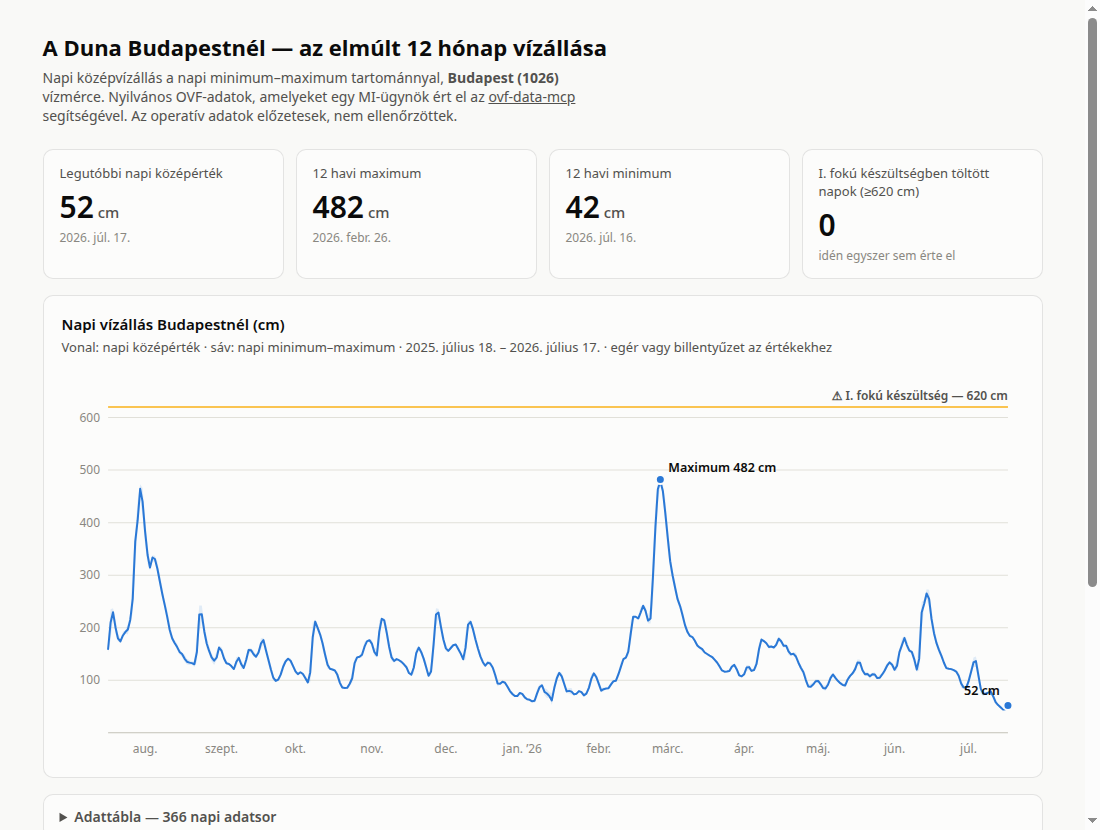
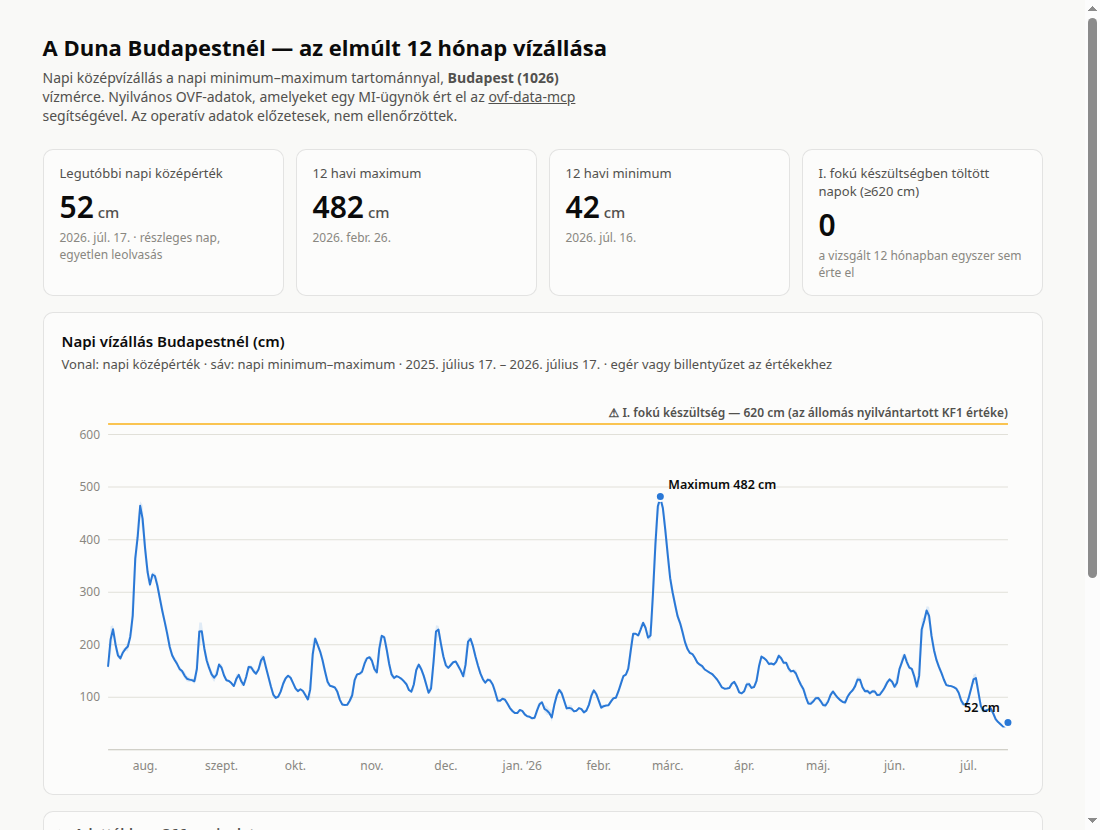
docs: flag the partial final day and derive hardcoded figures
On the water-level page the final row has min = mean = max = 52.0, the only such
row in 366 days. That signature is a single reading, not a full hydrological day,
and it drove the "latest value" tile, the chart endpoint and the aria-label. It is
now labelled a partial day rather than presented as a daily mean.

Two figures were hardcoded and would have gone stale on any data refresh: the
alert-day count was the literal 0, now filtered from the series, and the Balaton
page divided by a literal 366 instead of the series length.

Both pages stated a window starting July 18 while their data starts July 17, the
hydrological day containing the query start. Prose now matches the data. The
620 cm alert level is attributed to the station's registered KF1 value, so an
authoritative-looking number is traceable to the documented method.

diff --git a/docs/examples/danube-water-level.html b/docs/examples/danube-water-level.html
@@ -78,9 +78,9 @@
 
   <div class="card">
     <h2>Napi vízállás Budapestnél (cm)</h2>
-    <p class="sub">Vonal: napi középérték · sáv: napi minimum–maximum · 2025. július 18. – 2026. július 17. · egér vagy billentyűzet az értékekhez</p>
+    <p class="sub">Vonal: napi középérték · sáv: napi minimum–maximum · 2025. július 17. – 2026. július 17. · egér vagy billentyűzet az értékekhez</p>
     <svg id="chart" viewBox="0 0 960 400" role="img" tabindex="0"
-         aria-label="Vonaldiagram a Duna Budapestnél mért napi vízállásáról az elmúlt 12 hónapban. A február végi maximum 482 centiméter, a jelenlegi érték az éves minimum közelében, 52 centiméter. A 620 centiméteres elsőfokú készültségi szintet nem érte el. A teljes adatsor az alábbi táblázatban található."></svg>
+         aria-label="Vonaldiagram a Duna Budapestnél mért napi vízállásáról az elmúlt 12 hónapban. A február végi maximum 482 centiméter, a legutóbbi, még részleges nap középértéke 52 centiméter, közel az éves minimumhoz. A 620 centiméteres elsőfokú készültségi szintet nem érte el. A teljes adatsor az alábbi táblázatban található."></svg>
     <div class="tooltip" id="tooltip"></div>
   </div>
 
@@ -113,7 +113,7 @@ vizugy observations aggregate surface:1026 --start 2025-07-18T00:00:00Z \
 "use strict";
 // rows: [ISO date, mean, min, max] in cm
 const DATA = [["2025-07-17",159.4,153.0,175.0],["2025-07-18",209.9,178.0,235.0],["2025-07-19",229.5,218.0,237.0],["2025-07-20",200.5,188.0,217.0],["2025-07-21",179.8,174.0,189.0],["2025-07-22",173.8,171.0,179.0],["2025-07-23",185.3,181.0,192.0],["2025-07-24",191.7,189.0,195.0],["2025-07-25",196.4,187.0,207.0],["2025-07-26",214.7,208.0,226.0],["2025-07-27",255.4,227.0,314.0],["2025-07-28",364.5,320.0,385.0],["2025-07-29",404.5,386.0,442.0],["2025-07-30",464.2,444.0,473.0],["2025-07-31",440.1,412.0,466.0],["2025-08-01",383.3,358.0,410.0],["2025-08-02",338.3,322.0,358.0],["2025-08-03",314.4,309.0,323.0],["2025-08-04",333.6,326.0,338.0],["2025-08-05",330.7,326.0,337.0],["2025-08-06",312.3,302.0,326.0],["2025-08-07",287.4,277.0,301.0],["2025-08-08",264.1,254.0,277.0],["2025-08-09",242.5,234.0,253.0],["2025-08-10",220.5,210.0,234.0],["2025-08-11",195.5,186.0,209.0],["2025-08-12",179.4,174.0,187.0],["2025-08-13",170.8,167.0,176.0],["2025-08-14",163.0,158.0,170.0],["2025-08-15",153.9,149.0,160.0],["2025-08-16",149.7,144.0,153.0],["2025-08-17",141.2,135.0,149.0],["2025-08-18",135.3,130.0,141.0],["2025-08-19",133.6,129.0,138.0],["2025-08-20",132.6,130.0,136.0],["2025-08-21",130.5,125.0,135.0],["2025-08-22",153.8,135.0,189.0],["2025-08-23",224.9,193.0,242.0],["2025-08-24",225.4,210.0,242.0],["2025-08-25",192.9,182.0,209.0],["2025-08-26",169.9,161.0,182.0],["2025-08-27",155.2,148.0,164.0],["2025-08-28",143.7,136.0,151.0],["2025-08-29",137.3,129.0,142.0],["2025-08-30",142.8,138.0,156.0],["2025-08-31",162.1,158.0,165.0],["2025-09-01",156.2,152.0,163.0],["2025-09-02",142.0,135.0,151.0],["2025-09-03",132.2,130.0,135.0],["2025-09-04",131.1,128.0,133.0],["2025-09-05",127.0,123.0,129.0],["2025-09-06",121.4,119.0,123.0],["2025-09-07",134.5,125.0,144.0],["2025-09-08",142.5,139.0,145.0],["2025-09-09",130.2,122.0,138.0],["2025-09-10",123.2,121.0,128.0],["2025-09-11",138.4,129.0,148.0],["2025-09-12",157.6,149.0,162.0],["2025-09-13",157.1,154.0,161.0],["2025-09-14",149.6,144.0,156.0],["2025-09-15",144.8,143.0,149.0],["2025-09-16",152.9,148.0,159.0],["2025-09-17",169.6,159.0,180.0],["2025-09-18",176.6,169.0,181.0],["2025-09-19",157.2,148.0,168.0],["2025-09-20",139.2,130.0,148.0],["2025-09-21",121.0,113.0,130.0],["2025-09-22",105.1,99.0,112.0],["2025-09-23",98.6,97.0,100.0],["2025-09-24",101.2,98.0,104.0],["2025-09-25",110.7,105.0,118.0],["2025-09-26",125.8,117.0,133.0],["2025-09-27",135.7,134.0,139.0],["2025-09-28",141.0,140.0,143.0],["2025-09-29",137.1,133.0,142.0],["2025-09-30",127.3,122.0,132.0],["2025-10-01",116.8,112.0,122.0],["2025-10-02",111.5,110.0,113.0],["2025-10-03",115.2,114.0,116.0],["2025-10-04",111.8,108.0,115.0],["2025-10-05",104.3,99.0,109.0],["2025-10-06",95.8,94.0,100.0],["2025-10-07",114.8,96.0,142.0],["2025-10-08",181.8,146.0,210.0],["2025-10-09",211.5,207.0,215.0],["2025-10-10",199.6,193.0,206.0],["2025-10-11",186.9,182.0,193.0],["2025-10-12",170.4,158.0,181.0],["2025-10-13",148.9,139.0,159.0],["2025-10-14",129.6,122.0,138.0],["2025-10-15",121.9,121.0,123.0],["2025-10-16",120.3,118.0,122.0],["2025-10-17",118.5,117.0,119.0],["2025-10-18",110.3,103.0,117.0],["2025-10-19",95.0,90.0,102.0],["2025-10-20",86.0,83.0,89.0],["2025-10-21",85.3,84.0,87.0],["2025-10-22",85.5,84.0,87.0],["2025-10-23",93.2,88.0,96.0],["2025-10-24",103.7,95.0,119.0],["2025-10-25",132.5,120.0,141.0],["2025-10-26",143.5,141.0,146.0],["2025-10-27",144.5,142.0,146.0],["2025-10-28",148.4,143.0,155.0],["2025-10-29",163.8,156.0,173.0],["2025-10-30",174.0,173.0,175.0],["2025-10-31",176.2,175.0,178.0],["2025-11-01",169.7,162.0,177.0],["2025-11-02",153.7,147.0,162.0],["2025-11-03",147.3,143.0,160.0],["2025-11-04",192.1,163.0,213.0],["2025-11-05",217.0,214.0,219.0],["2025-11-06",214.0,206.0,218.0],["2025-11-07",191.0,177.0,205.0],["2025-11-08",163.2,152.0,176.0],["2025-11-09",143.5,137.0,152.0],["2025-11-10",136.6,133.0,141.0],["2025-11-11",140.2,139.0,141.0],["2025-11-12",138.1,137.0,139.0],["2025-11-13",134.8,132.0,137.0],["2025-11-14",130.3,129.0,132.0],["2025-11-15",124.8,120.0,129.0],["2025-11-16",113.6,111.0,119.0],["2025-11-17",110.6,109.0,113.0],["2025-11-18",124.2,113.0,139.0],["2025-11-19",151.5,141.0,160.0],["2025-11-20",162.1,159.0,164.0],["2025-11-21",153.3,147.0,160.0],["2025-11-22",141.1,135.0,147.0],["2025-11-23",124.5,115.0,135.0],["2025-11-24",108.6,106.0,114.0],["2025-11-25",116.8,109.0,134.0],["2025-11-26",167.7,136.0,199.0],["2025-11-27",225.0,202.0,237.0],["2025-11-28",228.7,219.0,236.0],["2025-11-29",202.1,188.0,217.0],["2025-11-30",177.4,168.0,187.0],["2025-12-01",160.7,155.0,168.0],["2025-12-02",155.8,154.0,158.0],["2025-12-03",161.4,158.0,165.0],["2025-12-04",166.6,165.0,169.0],["2025-12-05",168.1,166.0,169.0],["2025-12-06",159.5,154.0,166.0],["2025-12-07",151.0,147.0,155.0],["2025-12-08",140.1,137.0,146.0],["2025-12-09",161.5,139.0,191.0],["2025-12-10",205.8,193.0,214.0],["2025-12-11",211.2,206.0,214.0],["2025-12-12",197.2,189.0,205.0],["2025-12-13",177.5,169.0,188.0],["2025-12-14",160.8,154.0,168.0],["2025-12-15",145.3,140.0,153.0],["2025-12-16",134.2,129.0,140.0],["2025-12-17",127.7,125.0,129.0],["2025-12-18",133.6,130.0,136.0],["2025-12-19",131.9,128.0,136.0],["2025-12-20",124.2,119.0,128.0],["2025-12-21",109.8,100.0,119.0],["2025-12-22",93.8,88.0,100.0],["2025-12-23",93.0,92.0,95.0],["2025-12-24",97.2,96.0,99.0],["2025-12-25",95.2,92.0,98.0],["2025-12-26",87.5,84.0,92.0],["2025-12-27",79.3,76.0,84.0],["2025-12-28",73.8,70.0,77.0],["2025-12-29",69.9,68.0,72.0],["2025-12-30",69.8,68.0,73.0],["2025-12-31",75.7,73.0,77.0],["2026-01-01",74.1,71.0,76.0],["2026-01-02",67.4,64.0,71.0],["2026-01-03",63.7,63.0,65.0],["2026-01-04",62.7,61.0,64.0],["2026-01-05",59.9,58.0,62.0],["2026-01-06",60.8,57.0,65.0],["2026-01-07",75.0,66.0,84.0],["2026-01-08",86.6,83.0,92.0],["2026-01-09",90.4,86.0,93.0],["2026-01-10",77.6,72.0,85.0],["2026-01-11",74.8,66.0,83.0],["2026-01-12",69.7,67.0,77.0],["2026-01-13",61.7,53.0,76.0],["2026-01-14",85.4,77.0,94.0],["2026-01-15",103.8,95.0,113.0],["2026-01-16",114.0,113.0,115.0],["2026-01-17",107.4,101.0,114.0],["2026-01-18",92.7,85.0,101.0],["2026-01-19",78.7,76.0,84.0],["2026-01-20",79.8,75.0,85.0],["2026-01-21",78.2,73.0,85.0],["2026-01-22",73.0,72.0,74.0],["2026-01-23",74.4,73.0,77.0],["2026-01-24",79.4,77.0,81.0],["2026-01-25",77.4,74.0,80.0],["2026-01-26",71.1,70.0,74.0],["2026-01-27",74.5,72.0,79.0],["2026-01-28",85.5,80.0,94.0],["2026-01-29",102.5,94.0,112.0],["2026-01-30",113.1,112.0,114.0],["2026-01-31",106.2,101.0,112.0],["2026-02-01",93.5,86.0,101.0],["2026-02-02",80.1,77.0,85.0],["2026-02-03",83.0,79.0,86.0],["2026-02-04",84.2,84.0,85.0],["2026-02-05",84.8,84.0,87.0],["2026-02-06",92.1,87.0,97.0],["2026-02-07",98.3,97.0,99.0],["2026-02-08",99.1,97.0,104.0],["2026-02-09",111.4,105.0,118.0],["2026-02-10",125.5,118.0,135.0],["2026-02-11",140.0,136.0,142.0],["2026-02-12",142.9,141.0,146.0],["2026-02-13",154.4,146.0,166.0],["2026-02-14",189.5,168.0,213.0],["2026-02-15",220.9,214.0,223.0],["2026-02-16",220.8,219.0,222.0],["2026-02-17",217.4,215.0,221.0],["2026-02-18",228.8,221.0,240.0],["2026-02-19",241.7,240.0,243.0],["2026-02-20",232.2,223.0,240.0],["2026-02-21",213.5,208.0,222.0],["2026-02-22",217.4,208.0,240.0],["2026-02-23",295.9,245.0,347.0],["2026-02-24",391.7,351.0,434.0],["2026-02-25",463.5,434.0,480.0],["2026-02-26",479.0,474.0,482.0],["2026-02-27",460.3,446.0,474.0],["2026-02-28",419.1,398.0,444.0],["2026-03-01",371.0,348.0,395.0],["2026-03-02",326.5,310.0,346.0],["2026-03-03",298.9,288.0,310.0],["2026-03-04",275.5,265.0,288.0],["2026-03-05",254.2,247.0,264.0],["2026-03-06",241.2,235.0,247.0],["2026-03-07",224.3,214.0,235.0],["2026-03-08",204.8,198.0,213.0],["2026-03-09",191.8,188.0,198.0],["2026-03-10",184.2,182.0,188.0],["2026-03-11",182.2,180.0,185.0],["2026-03-12",175.2,171.0,180.0],["2026-03-13",166.1,163.0,170.0],["2026-03-14",162.0,160.0,165.0],["2026-03-15",159.1,154.0,162.0],["2026-03-16",152.7,151.0,155.0],["2026-03-17",149.9,147.0,153.0],["2026-03-18",146.8,146.0,147.0],["2026-03-19",144.2,142.0,147.0],["2026-03-20",139.1,136.0,142.0],["2026-03-21",133.8,131.0,136.0],["2026-03-22",126.4,122.0,132.0],["2026-03-23",118.6,117.0,121.0],["2026-03-24",116.2,115.0,118.0],["2026-03-25",116.7,115.0,118.0],["2026-03-26",117.5,116.0,121.0],["2026-03-27",125.7,121.0,130.0],["2026-03-28",129.2,127.0,131.0],["2026-03-29",120.6,114.0,127.0],["2026-03-30",109.3,106.0,114.0],["2026-03-31",107.4,105.0,109.0],["2026-04-01",111.6,109.0,116.0],["2026-04-02",124.2,117.0,129.0],["2026-04-03",125.0,120.0,129.0],["2026-04-04",117.7,116.0,120.0],["2026-04-05",119.5,118.0,123.0],["2026-04-06",131.0,123.0,143.0],["2026-04-07",158.4,144.0,170.0],["2026-04-08",177.5,173.0,179.0],["2026-04-09",174.6,172.0,177.0],["2026-04-10",170.3,168.0,173.0],["2026-04-11",163.2,160.0,167.0],["2026-04-12",164.2,162.0,166.0],["2026-04-13",162.4,161.0,163.0],["2026-04-14",167.2,163.0,174.0],["2026-04-15",179.0,175.0,183.0],["2026-04-16",174.2,170.0,179.0],["2026-04-17",165.7,162.0,169.0],["2026-04-18",165.7,163.0,168.0],["2026-04-19",154.9,148.0,164.0],["2026-04-20",149.2,146.0,151.0],["2026-04-21",150.4,148.0,153.0],["2026-04-22",145.2,139.0,153.0],["2026-04-23",133.4,129.0,139.0],["2026-04-24",123.8,118.0,130.0],["2026-04-25",115.7,111.0,120.0],["2026-04-26",100.4,93.0,111.0],["2026-04-27",88.1,85.0,92.0],["2026-04-28",87.8,85.0,93.0],["2026-04-29",91.8,89.0,96.0],["2026-04-30",98.0,96.0,102.0],["2026-05-01",98.6,96.0,102.0],["2026-05-02",92.7,88.0,97.0],["2026-05-03",85.2,82.0,90.0],["2026-05-04",84.3,80.0,90.0],["2026-05-05",91.4,89.0,98.0],["2026-05-06",103.9,99.0,110.0],["2026-05-07",111.0,109.0,113.0],["2026-05-08",104.4,101.0,109.0],["2026-05-09",98.8,96.0,102.0],["2026-05-10",94.5,91.0,97.0],["2026-05-11",91.0,89.0,93.0],["2026-05-12",90.1,86.0,95.0],["2026-05-13",101.5,96.0,107.0],["2026-05-14",108.1,106.0,111.0],["2026-05-15",113.4,111.0,116.0],["2026-05-16",121.2,114.0,129.0],["2026-05-17",133.8,129.0,140.0],["2026-05-18",133.3,127.0,139.0],["2026-05-19",119.1,115.0,126.0],["2026-05-20",111.3,108.0,115.0],["2026-05-21",111.9,109.0,116.0],["2026-05-22",107.5,103.0,111.0],["2026-05-23",111.3,109.0,114.0],["2026-05-24",110.9,106.0,115.0],["2026-05-25",104.1,102.0,106.0],["2026-05-26",104.8,102.0,111.0],["2026-05-27",111.0,110.0,113.0],["2026-05-28",118.7,113.0,126.0],["2026-05-29",127.6,124.0,133.0],["2026-05-30",134.0,132.0,136.0],["2026-05-31",129.6,125.0,134.0],["2026-06-01",119.7,117.0,126.0],["2026-06-02",127.7,119.0,144.0],["2026-06-03",153.3,146.0,159.0],["2026-06-04",167.0,160.0,180.0],["2026-06-05",180.4,177.0,184.0],["2026-06-06",167.0,160.0,177.0],["2026-06-07",156.5,153.0,161.0],["2026-06-08",153.9,151.0,157.0],["2026-06-09",139.8,127.0,151.0],["2026-06-10",120.1,116.0,127.0],["2026-06-11",140.5,119.0,189.0],["2026-06-12",229.1,194.0,249.0],["2026-06-13",245.5,239.0,254.0],["2026-06-14",265.2,255.0,273.0],["2026-06-15",254.9,238.0,272.0],["2026-06-16",216.6,204.0,235.0],["2026-06-17",189.6,181.0,203.0],["2026-06-18",170.6,164.0,180.0],["2026-06-19",157.8,151.0,164.0],["2026-06-20",146.4,142.0,153.0],["2026-06-21",133.8,128.0,141.0],["2026-06-22",123.0,121.0,127.0],["2026-06-23",121.9,120.0,123.0],["2026-06-24",121.2,119.0,123.0],["2026-06-25",119.2,117.0,121.0],["2026-06-26",116.5,115.0,120.0],["2026-06-27",108.6,103.0,115.0],["2026-06-28",93.8,85.0,103.0],["2026-06-29",86.5,84.0,89.0],["2026-06-30",85.7,83.0,89.0],["2026-07-01",97.2,89.0,107.0],["2026-07-02",115.2,109.0,124.0],["2026-07-03",133.9,125.0,143.0],["2026-07-04",136.5,125.0,145.0],["2026-07-05",109.1,96.0,124.0],["2026-07-06",83.5,74.0,94.0],["2026-07-07",74.2,70.0,76.0],["2026-07-08",74.7,73.0,76.0],["2026-07-09",76.3,74.0,80.0],["2026-07-10",78.8,76.0,81.0],["2026-07-11",69.7,63.0,76.0],["2026-07-12",58.1,54.0,64.0],["2026-07-13",52.6,50.0,54.0],["2026-07-14",48.7,45.0,52.0],["2026-07-15",44.5,43.0,46.0],["2026-07-16",44.8,42.0,51.0],["2026-07-17",52.0,52.0,52.0]];
-const ALERT1 = 620; // OVF alert level I for this gauge (II: 700, III: 800 — off-scale here)
+const ALERT1 = 620; // az állomás nyilvántartott KF1 értéke (vizugy stations search); II: 700, III: 800
 
 const css = n => getComputedStyle(document.querySelector(".viz-root")).getPropertyValue(n).trim();
 const fmt = v => v.toLocaleString("hu-HU", { maximumFractionDigits: 1 });
@@ -124,10 +124,10 @@ const latest = DATA[DATA.length - 1];
 let peak = DATA[0], low = DATA[0];
 for (const r of DATA) { if (r[3] > peak[3]) peak = r; if (r[2] < low[2]) low = r; }
 document.getElementById("tiles").innerHTML = `
-  <div class="tile"><div class="label">Legutóbbi napi középérték</div><div class="value">${fmt(latest[1])}<small> cm</small></div><div class="sub">${fmtDate(latest[0])}</div></div>
+  <div class="tile"><div class="label">Legutóbbi napi középérték</div><div class="value">${fmt(latest[1])}<small> cm</small></div><div class="sub">${fmtDate(latest[0])}${latest[2] === latest[3] ? " · részleges nap, egyetlen leolvasás" : ""}</div></div>
   <div class="tile"><div class="label">12 havi maximum</div><div class="value">${fmt(peak[3])}<small> cm</small></div><div class="sub">${fmtDate(peak[0])}</div></div>
   <div class="tile"><div class="label">12 havi minimum</div><div class="value">${fmt(low[2])}<small> cm</small></div><div class="sub">${fmtDate(low[0])}</div></div>
-  <div class="tile"><div class="label">I. fokú készültségben töltött napok (≥620 cm)</div><div class="value">0</div><div class="sub">idén egyszer sem érte el</div></div>`;
+  <div class="tile"><div class="label">I. fokú készültségben töltött napok (≥620 cm)</div><div class="value">${DATA.filter(r => r[3] >= ALERT1).length}</div><div class="sub">a vizsgált 12 hónapban egyszer sem érte el</div></div>`;
 
 // ---- chart ----
 const W = 960, H = 400, M = { t: 20, r: 16, b: 34, l: 46 };
@@ -160,7 +160,7 @@ for (const d of months) {
 
 // alert level I reference line
 el("line", { x1: M.l, x2: W - M.r, y1: y(ALERT1), y2: y(ALERT1), stroke: css("--status-warning"), "stroke-width": 1.5 });
-txt("⚠ I. fokú készültség — 620 cm", { x: W - M.r, y: y(ALERT1) - 7, "text-anchor": "end", "font-size": 12, "font-weight": 600, fill: css("--text-secondary") });
+txt("⚠ I. fokú készültség — 620 cm (az állomás nyilvántartott KF1 értéke)", { x: W - M.r, y: y(ALERT1) - 7, "text-anchor": "end", "font-size": 12, "font-weight": 600, fill: css("--text-secondary") });
 
 // min–max band (series hue wash)
 const bandPath = DATA.map((r, i) => `${i ? "L" : "M"}${x(r[0]).toFixed(1)},${y(r[3]).toFixed(1)}`).join("")

diff --git a/docs/examples/danube-in-balatons.html b/docs/examples/danube-in-balatons.html
@@ -60,7 +60,7 @@
 <div class="wrap">
   <header>
     <h1>A Duna egy éve, Balatonban mérve</h1>
-    <p>A Duna napi középvízhozama Budapestnél 2025. július 18. és 2026. július 17. között — és az összegük.
+    <p>A Duna napi középvízhozama Budapestnél 2025. július 17. és 2026. július 17. között — és az összegük.
        Még ebben az aszályos évben is 47 km³ víz folyt át a városon: nagyjából 15 naponta
        egy Balatonnyi. Nyilvános OVF-adatok, amelyeket egy MI-ügynök ért el az
        <a href="https://github.com/kalcifield/ovf-data-mcp">ovf-data-mcp</a> segítségével. Az operatív adatok előzetesek, nem ellenőrzöttek.</p>
@@ -132,7 +132,7 @@ const low = DATA.reduce((a, b) => (b[1] < a[1] ? b : a));
 
 document.getElementById("tiles").innerHTML = `
   <div class="tile"><div class="label">Budapestnél átfolyt éves vízmennyiség</div><div class="value">${fmt(total, 1)}<small> km³</small></div><div class="sub">napi középértékekből összegezve</div></div>
-  <div class="tile"><div class="label">Balatonban kifejezve</div><div class="value">≈${fmt(balatons, 0)}</div><div class="sub">~${fmt(366 / balatons, 0)} naponta egy Balaton</div></div>
+  <div class="tile"><div class="label">Balatonban kifejezve</div><div class="value">≈${fmt(balatons, 0)}</div><div class="sub">~${fmt(DATA.length / balatons, 0)} naponta egy Balaton</div></div>
   <div class="tile"><div class="label">Legnagyobb vízhozamú nap</div><div class="value">${fmt(peak[1])}<small> m³/s</small></div><div class="sub">${fmtDate(peak[0])}, árvízi tetőzés</div></div>
   <div class="tile"><div class="label">Legkisebb vízhozamú nap</div><div class="value">${fmt(low[1])}<small> m³/s</small></div><div class="sub">${fmtDate(low[0])} — a tetőzés ${fmt(peak[1] / low[1], 1)}-szerese</div></div>`;
 